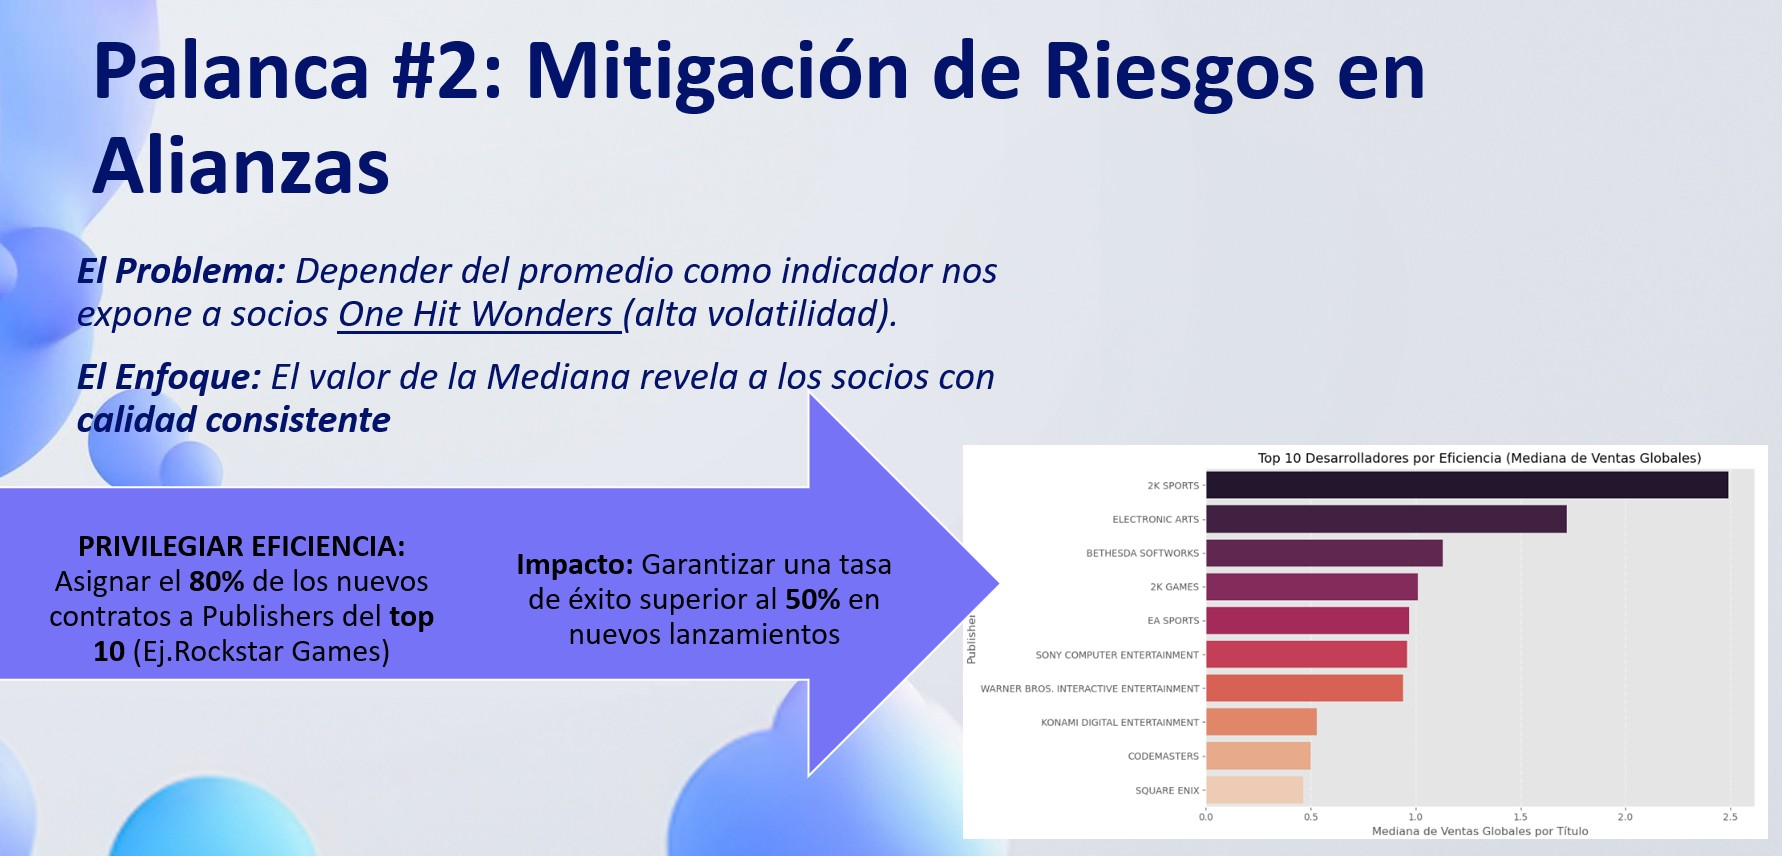
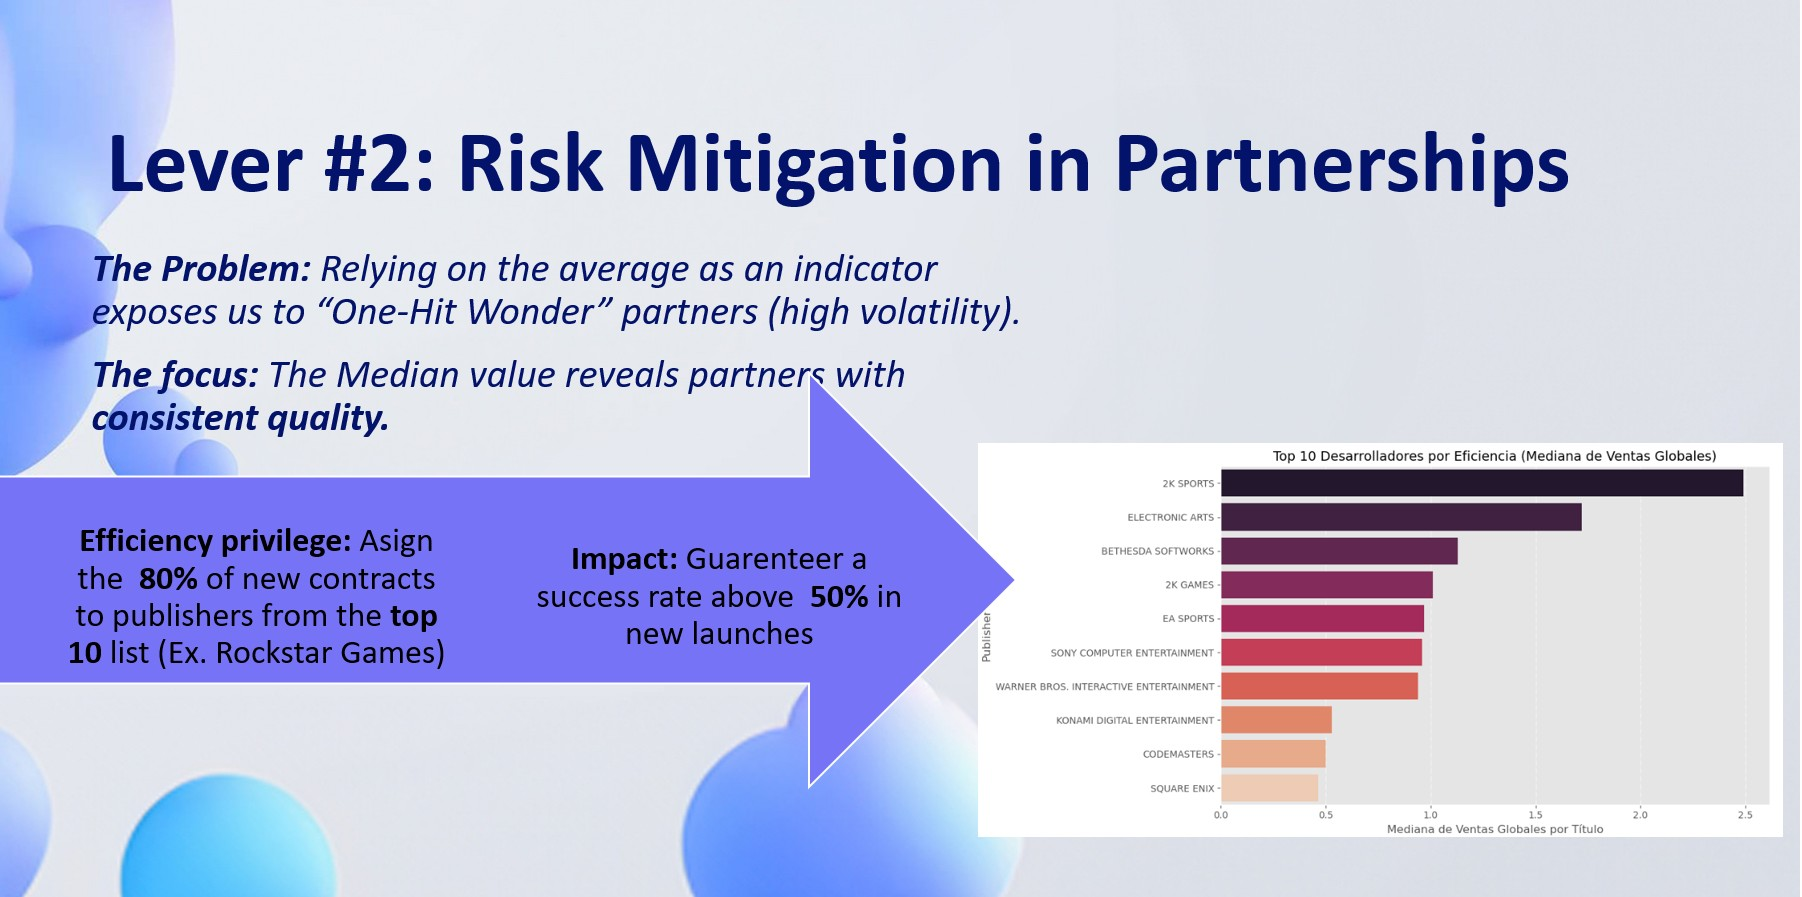
First commit

Changed region(s): [[0.0, 0.0, 1.0, 1.0], [0.0617, 0.8505, 0.1852, 1.0]]

diff --git a/1.Videogames_Sales/README.md b/1.Videogames_Sales/README.md
@@ -1,39 +1,39 @@
-# 🎮 Análisis de Mercado Global de Videojuegos: De los Datos a la Estrategia
+# 🎮 Global Video Game Market Analysis: From Data to Strategy
 
-## 📋 Descripción del Proyecto
-Este proyecto realiza un análisis exhaustivo del mercado de videojuegos utilizando **Python**. Siguiendo la metodología de análisis de datos de Google, el estudio transita desde la limpieza de datos crudos hasta la identificación de comportamientos regionales de nicho y la segmentación estratégica del catálogo mediante el principio de Pareto.
+## 📋 Project Overview
+This project performs a comprehensive analysis of the video game market using **Python**. Following the Google Data Analytics methodology, the study transitions from raw data cleaning to the identification of niche regional behaviors and strategic catalog segmentation using the Pareto principle.
 
-A pesar de ser un proyecto desarrollado íntegramente en el ecosistema de Python, logra una profundidad de análisis que permite identificar socios clave y productos estrella para la toma de decisiones de negocio.
-
----
-
-## 🧠 Metodología (Google Data Analytics Framework)
-El análisis se estructuró siguiendo las seis fases de la metodología de Google para garantizar resultados accionables:
-
-1.  **Preguntar:** Definición de objetivos de negocio, enfocados en entender la rentabilidad por región y el rendimiento del catálogo.
-2.  **Preparar:** Recolección y validación de datasets de ventas históricas globales.
-3.  **Procesar:** Limpieza profunda de datos con Python, abordando valores nulos, duplicados y normalización de variables.
-4.  **Analizar:** Análisis Exploratorio de Datos (EDA) y aplicación de la **Clasificación ABC/Pareto**.
-5.  **Visualizar:** Comunicación de hallazgos mediante gráficos de tendencias y participación de mercado.
-6.  **Actuar:** Traducción de los hallazgos en recomendaciones estratégicas para marketing y logística.
+Despite being developed entirely within the Python ecosystem, the depth of analysis allows for the identification of key partners and "star products" for business decision-making.
 
 ---
 
-## 🚀 Hallazgos Clave e Insights
-* **Segmentación ABC (Pareto):** Identificación de los "Videojuegos Estrella" (Categoría A) que representan el 80% del valor del negocio, optimizando el enfoque en gestión de inventario.
-* **Análisis Regional (El caso de Japón):** Se detectó un comportamiento de consumo atípico en el mercado japonés, con una preferencia dominante por géneros de nicho que no presentan la misma relevancia en mercados occidentales (NA/EU).
-* **Socios Clave:** Determinación de los publishers estratégicos según su volumen de ventas y éxito crítico en el catálogo.
+## 🧠 Methodology (Google Data Analytics Framework)
+The analysis was structured following the six phases of the Google methodology to ensure actionable results:
+
+1. **Ask:** Definition of business objectives, focused on understanding regional profitability and catalog performance.
+2. **Prepare:** Collection and validation of global historical sales datasets.
+3. **Process:** Deep data cleaning with Python, addressing null values, duplicates, and variable normalization.
+4. **Analyze:** Exploratory Data Analysis (EDA) and application of **ABC/Pareto Classification**.
+5. **Visualize:** Communication of findings through trend charts and market share visualizations.
+6. **Act:** Translation of findings into strategic recommendations for marketing and logistics.
 
 ---
 
-## 🛠 Herramientas y Habilidades Técnicas
-* **Lenguaje:** Python
-* **Limpieza de Datos:** Uso avanzado de `Pandas` (manejo de `missing values`, `pivot_tables`, `merge` y `lambda functions`).
-* **Análisis Estratégico:** Implementación lógica del Principio de Pareto (80/20) para categorización de productos.
-* **Visualización:** `Matplotlib` y `Seaborn` para representar distribuciones regionales y la curva de concentración de ventas.
+## 🚀 Key Findings & Insights
+* **ABC Segmentation (Pareto):** Identification of "Star Video Games" (Category A) representing 80% of the business value, optimizing the focus on inventory management.
+* **Regional Analysis (The Japan Case):** An atypical consumption behavior was detected in the Japanese market, with a dominant preference for niche genres that do not hold the same relevance in Western markets (NA/EU).
+* **Key Partners:** Determination of strategic publishers based on their sales volume and critical success within the catalog.
 
 ---
 
-## 💡 Conclusiones Estratégicas
-* **Personalización Regional:** Propuesta de campañas de marketing específicas para Japón basadas en sus preferencias de género únicas
-* **Eficiencia de Inventario:** Recomendaciones para la rotación de títulos Clase C y priorización de stock para títulos Clase A.
+## 🛠 Tools & Technical Skills
+* **Language:** Python
+* **Data Cleaning:** Advanced use of `Pandas` (handling `missing values`, `pivot_tables`, `merge`, and `lambda functions`).
+* **Strategic Analysis:** Logical implementation of the Pareto Principle (80/20) for product categorization.
+* **Visualization:** `Matplotlib` and `Seaborn` to represent regional distributions and the sales concentration curve.
+
+---
+
+## 💡 Strategic Conclusions
+* **Regional Personalization:** Proposal for specific marketing campaigns for Japan based on its unique genre preferences.
+* **Inventory Efficiency:** Recommendations for Class C title turnover and stock prioritization for Class A titles.

diff --git a/README.md b/README.md
@@ -1,19 +1,18 @@
-### ¡Hola! Soy Francisco, Data Analyst 📈
+### ¡Hello! My name is Francisco, I'm a Data Analyst 📈
 
-Me dedico a descifrar los **datos** para encontrar insights que ayuden a una informada **toma de decisiones**. Mi fortalezas incluyen el **pensamiento crítico**, **resolución de problemas** y mi orientación a los **detalles**.
-
----
-
-**🛠 Habilidades Clave:**
-
-* **Lenguajes:** SQL, R, Python (Pandas, NumPy)
-* **Visualización:** Power BI, Microsoft Excel
-* **Análisis:** Creación de dashboards, storytelling con datos
+#### I'm dedicated to decoding **data** to find insights that lead to informed **decision-making**. My key strengths are **critical thinking**, **problem-solving**, and a meticulous **attention to detail**.
 
 ---
+**🛠 Core Competencies:**
 
-**🎯 Mi Meta:**
+* **Languages:** SQL, R, Python (Pandas, NumPy)
 
-Estoy en búsqueda de un rol como **Data Analyst Junior** o **Business Intelligence Analyst** para seguir perfeccionando mis habilidades y contribuir al éxito de un equipo.
+* **Visualization:** Power BI, Microsoft Excel
 
-¡Conectemos y colaboremos! 📧
+* **Analysis:** Dashboard design, data storytelling
+---
+**🎯 My Objective:**
+
+I'm looking for a **Junior Data Analyst** or **Business Intelligence Analyst** position to further develop my abilities and help a team achieve its goals.
+
+I'd love to connect and work together! 📧
